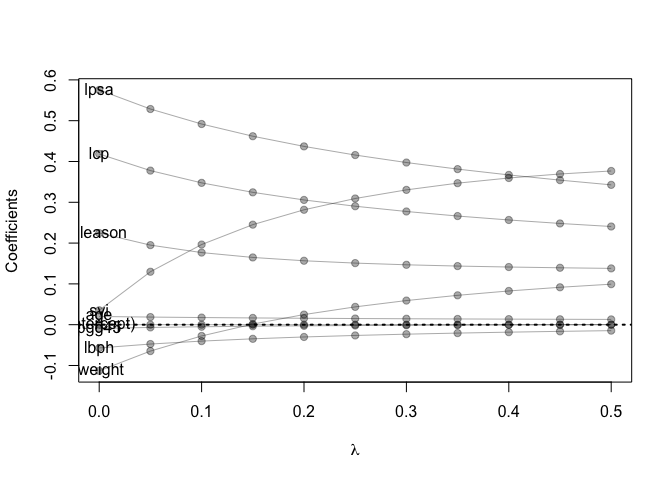
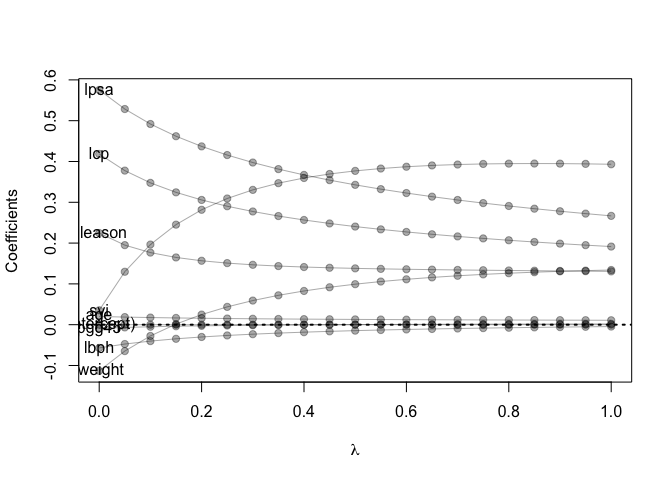
update

diff --git a/Homework3/homework3.md b/Homework3/homework3.md
@@ -220,24 +220,44 @@ error(prostate_test, fit)
 form  <- lcavol ~  lweight + age + lbph + lcp + pgg45 + lpsa + svi + gleason
 x_inp <- model.matrix(form, data=prostate_train)
 y_out <- prostate_train$lcavol
-fit <- glmnet(x=x_inp, y=y_out, lambda=seq(0.5, 0, -0.05),alpha=0)
+fit <- glmnet(x=x_inp, y=y_out, lambda=seq(1, 0, -0.05), alpha=0)
 print(fit$beta)
 ```
 
-    ## 9 x 11 sparse Matrix of class "dgCMatrix"
+    ## 9 x 21 sparse Matrix of class "dgCMatrix"
 
-    ##    [[ suppressing 11 column names 's0', 's1', 's2' ... ]]
+    ##    [[ suppressing 21 column names 's0', 's1', 's2' ... ]]
 
+    ##                                                                            
+    ## (Intercept)  .            .            .            .           .          
+    ## lweight      0.134011768  0.132519303  0.130744989  0.12864629  0.126173874
+    ## age          0.010831546  0.010978458  0.011134907  0.01130146  0.011479518
+    ## lbph        -0.004560822 -0.005201797 -0.005890082 -0.00664143 -0.007463984
+    ## lcp          0.191466551  0.194960124  0.198707284  0.20268660  0.206927271
+    ## pgg45        0.001911765  0.001819567  0.001717172  0.00160264  0.001474237
+    ## lpsa         0.266701008  0.272237464  0.278098369  0.28432224  0.290951107
+    ## svi          0.393190716  0.394166669  0.394766200  0.39498592  0.394751914
+    ## gleason      0.130622340  0.131177369  0.131718104  0.13227818  0.132866067
+    ##                                                                                
+    ## (Intercept)  .            .            .             .             .           
+    ## lweight      0.123269424  0.119863280  0.1158716818  0.1111931576  0.1057367423
+    ## age          0.011670740  0.011877123  0.0121010799  0.0123455384  0.0126162948
+    ## lbph        -0.008367417 -0.009363256 -0.0104653587 -0.0116905450 -0.0130587545
+    ## lcp          0.211463925  0.216338199  0.2216006089  0.2273130852  0.2336122365
+    ## pgg45        0.001329887  0.001167084  0.0009827841  0.0007732439  0.0005320808
+    ## lpsa         0.298034210  0.305629735  0.3138070249  0.3226494596  0.3322362737
+    ## svi          0.393974524  0.392543942  0.3903246503  0.3871479640  0.3827345083
+    ## gleason      0.133493280  0.134175190  0.1349324324  0.1357928799  0.1368039677
     ##                                                                    
     ## (Intercept)  .             .             .             .           
-    ## lweight      0.0993164708  9.167566e-02  0.0826683948  0.0719539791
-    ## age          0.0129153943  1.324527e-02  0.0136179441  0.0140406458
-    ## lbph        -0.0145798645 -1.634009e-02 -0.0183250211 -0.0206075810
-    ## lcp          0.2406189663  2.481045e-01  0.2566365965  0.2662889674
-    ## pgg45        0.0002559092 -6.282802e-05 -0.0004352183 -0.0008738898
-    ## lpsa         0.3427088262  3.542773e-01  0.3670625828  0.3813402190
-    ## svi          0.3767521726  3.693591e-01  0.3595330020  0.3468674180
-    ## gleason      0.1379543516  1.394770e-01  0.1413173561  0.1436779615
+    ## lweight      0.0992845548  9.167569e-02  0.0826683974  0.0719539790
+    ## age          0.0129137196  1.324527e-02  0.0136179442  0.0140406458
+    ## lbph        -0.0145982826 -1.633988e-02 -0.0183250234 -0.0206075810
+    ## lcp          0.2404842462  2.481056e-01  0.2566365841  0.2662889676
+    ## pgg45        0.0002563424 -6.281817e-05 -0.0004352185 -0.0008738898
+    ## lpsa         0.3427336970  3.542772e-01  0.3670625821  0.3813402190
+    ## svi          0.3769402232  3.693573e-01  0.3595330231  0.3468674177
+    ## gleason      0.1380061651  1.394762e-01  0.1413173664  0.1436779613
     ##                                                                             
     ## (Intercept)  .            .            .            .            .          
     ## lweight      0.059127616  0.043652593  0.024777969  0.001504802 -0.027603986
